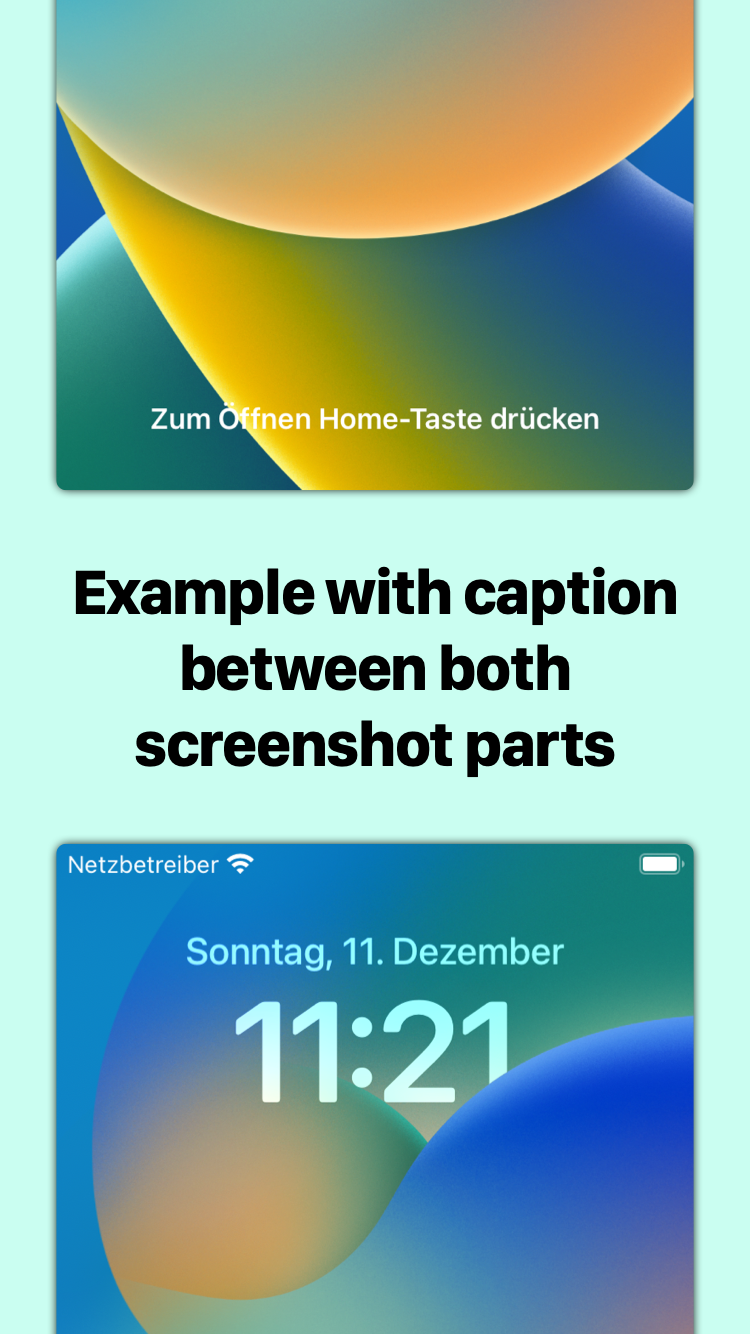
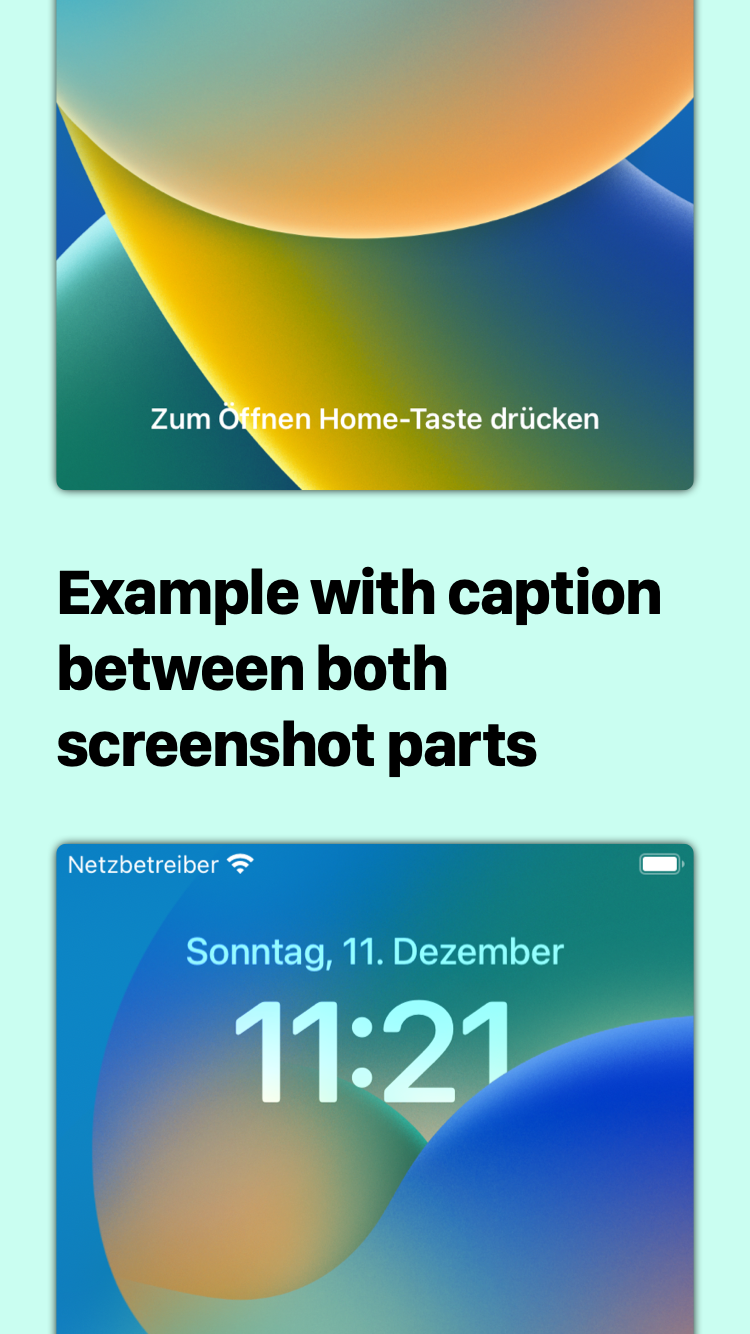
Option for horizontal alignment of the caption

Changed region(s): [[0.0613, 0.3996, 0.92, 0.584]]

diff --git a/Sources/ScreenshotScribblerCLI/ScreenshotScribblerCommand.swift b/Sources/ScreenshotScribblerCLI/ScreenshotScribblerCommand.swift
@@ -5,6 +5,7 @@
 import Foundation
 import ArgumentParser
 import CoreGraphics
+import CoreText
 import ScreenshotScribbler
 
 @main
@@ -58,6 +59,9 @@ struct ScreenshotScribblerCommand: ParsableCommand {
         
         @Option(name: .long, help: "Percentage of the caption area height relative to the total height of the output image. (Default: 0.25 (25%))")
         var captionSizeFactor: Double?
+        
+        @Option(name: .long, help: "Horizontal alignment of the caption. (Default: \"center\"; Options: \"left\", \"right\", \"justified\")", transform: transformTextAlignment)
+        var captionAlignment: CTTextAlignment?
         
         @Option(name: .long, help: "Color of the caption. (Default: \"#000000\" (black))", transform: transformColor)
         var captionColor: CGColor?
@@ -141,6 +145,9 @@ struct ScreenshotScribblerCommand: ParsableCommand {
         if let captionSizeFactor = self.captionStyleOptions.captionSizeFactor {
             layout.captionSizeFactor = captionSizeFactor
         }
+        if let captionAlignment = self.captionStyleOptions.captionAlignment {
+            layout.captionAlignment = captionAlignment
+        }
         if let captionColor = self.captionStyleOptions.captionColor {
             layout.captionColor = captionColor
         }
@@ -178,6 +185,20 @@ struct ScreenshotScribblerCommand: ParsableCommand {
             return .captionBetweenScreenshots
         } else {
             throw RuntimeError("Unsupported layout type: \(string)")
+        }
+    }
+    
+    private static func transformTextAlignment(_ string: String) throws -> CTTextAlignment {
+        if string == "center" {
+            return .center
+        } else if string == "left" {
+            return .left
+        } else if string == "right" {
+            return .right
+        } else if string == "justified" {
+            return .justified
+        } else {
+            throw RuntimeError("Unsupported text alignment: \(string)")
         }
     }
     

diff --git a/Sources/ScreenshotScribbler/ScreenshotScribbler.swift b/Sources/ScreenshotScribbler/ScreenshotScribbler.swift
@@ -241,8 +241,8 @@ public struct ScreenshotScribbler {
         let fontSize = self.layout.captionFontSize * deviceScale(context.width)
         let font = createFont(name: self.layout.captionFontName, size: fontSize, style: self.layout.captionFontStyle)
         
-        // Create a centered paragraph
-        let paragraphStyle = createParagraphStyle(alignment: .center)
+        // Create a paragraph style with text alignment
+        let paragraphStyle = createParagraphStyle(alignment: self.layout.captionAlignment)
         
         // Create an attributed string with that font, color and paragraph settings
         let attributes: [CFString : Any] = [

diff --git a/Sources/ScreenshotScribbler/Config/LayoutConfig.swift b/Sources/ScreenshotScribbler/Config/LayoutConfig.swift
@@ -4,6 +4,7 @@
 
 import Foundation
 import CoreGraphics
+import CoreText
 
 /// Layout configuration
 public struct LayoutConfig {
@@ -16,6 +17,9 @@ public struct LayoutConfig {
     
     /// Percentage of the caption area height relative to the total height of the output image. (Default: 0.25 (25%))
     public var captionSizeFactor: CGFloat = 0.25
+    
+    /// Horizontal alignment of the caption. (Default: center)
+    public var captionAlignment: CTTextAlignment = .center
     
     /// Color of the caption. (Default: black)
     public var captionColor: CGColor = black

diff --git a/README.md b/README.md
@@ -31,6 +31,7 @@ $ scrscr \
     --layout "caption-before-screenshot" \
     --background-color "#FFFFFF" \
     --caption-size-factor 0.25 \
+    --caption-alignment "center" \
     --caption-color "#000000" \
     --caption-font-name "SF Compact" \
     --caption-font-style "Bold" \
